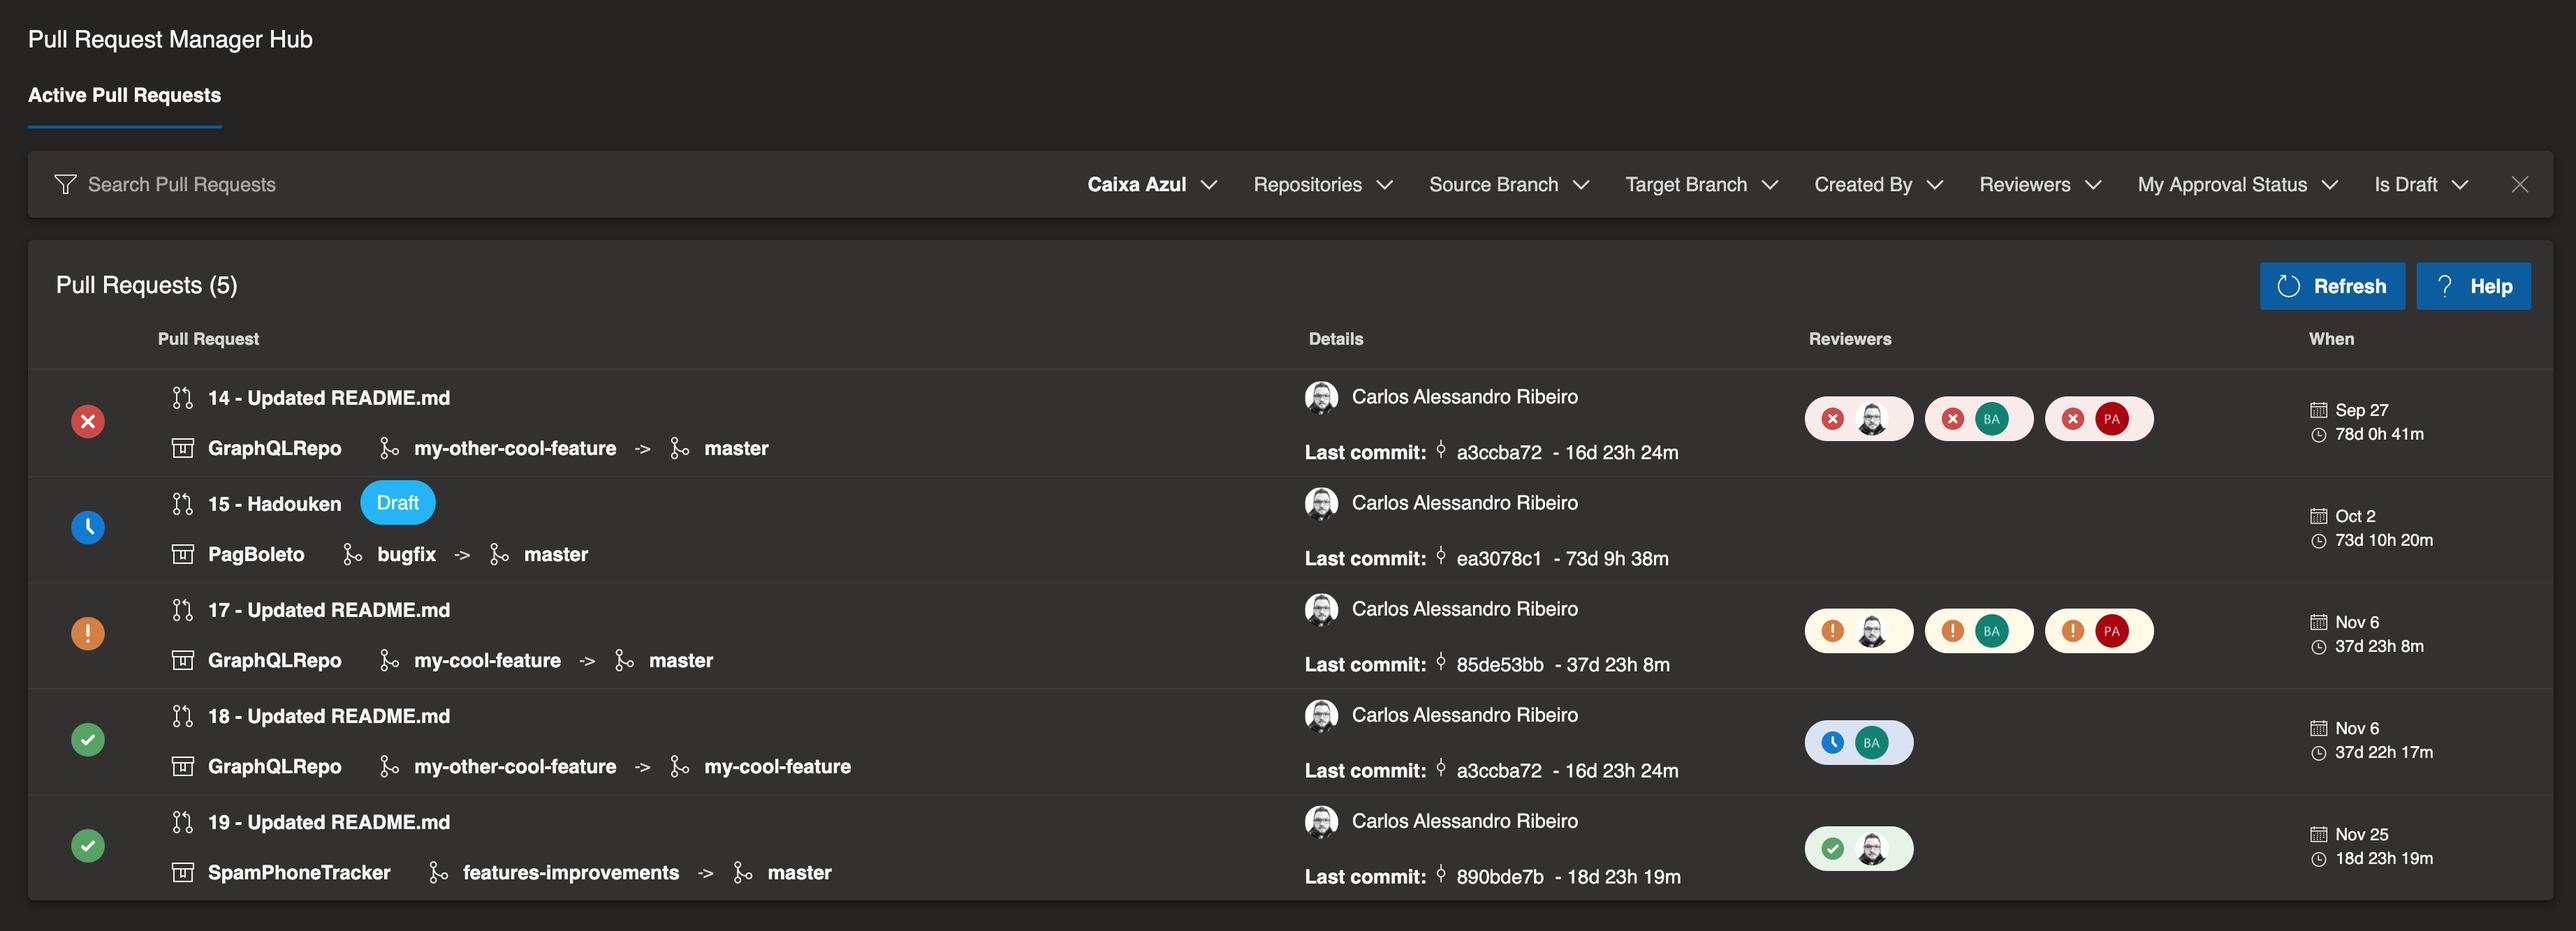
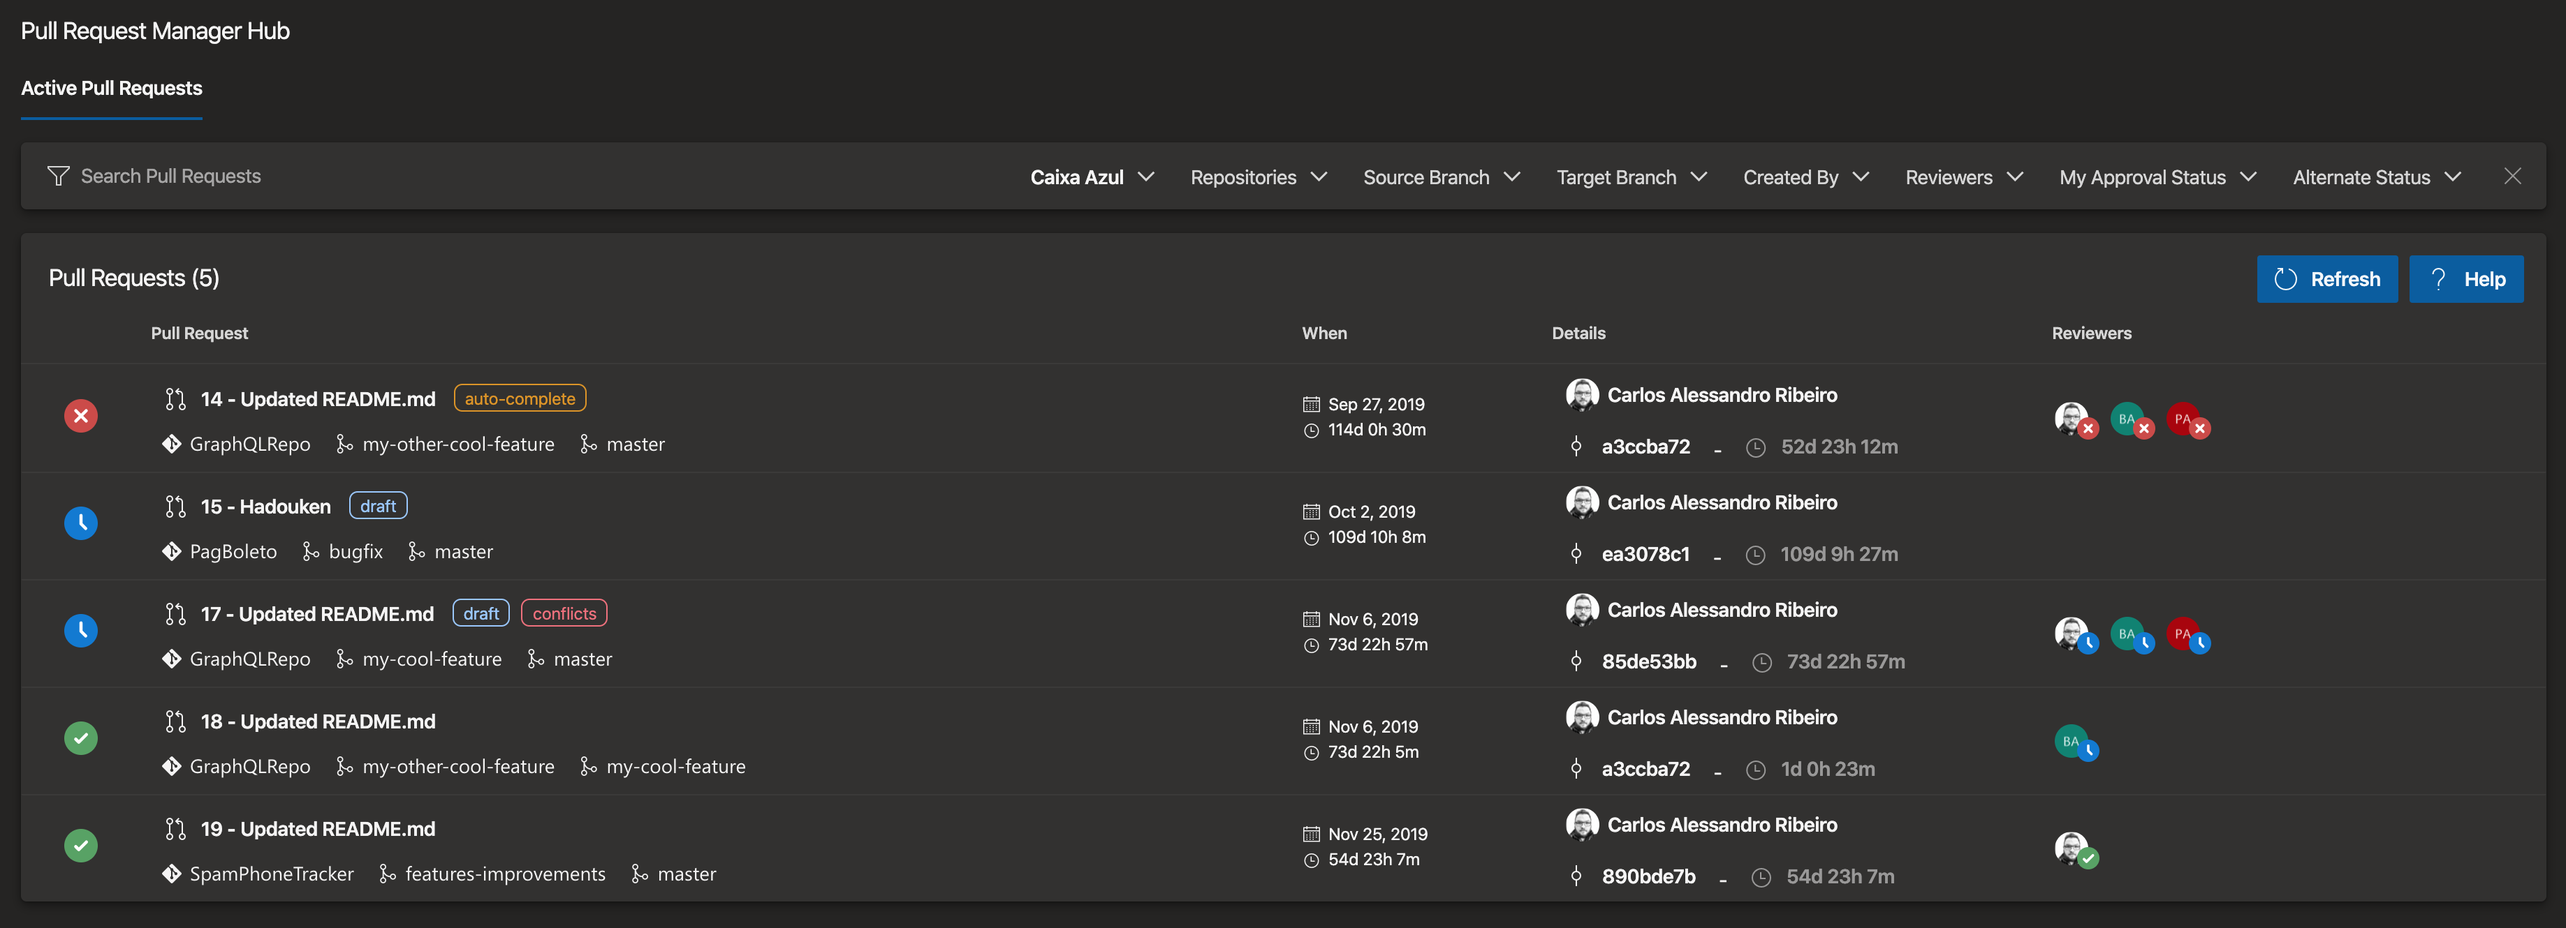
Updated screenshots

diff --git a/marketplace/overview.md b/marketplace/overview.md
@@ -1,5 +1,3 @@
-![Pull Request Manager Hub - Logo](marketplace/screenshots/screenshot-01.png)
-
 # Azure DevOps Pull Request Manager Hub
 
 Please report any feedback/issue [here](https://github.com/cribeiro84/azure-devops-pull-request-hub):
@@ -21,7 +19,7 @@ Manage your Pull Requests of all your projects and repositories at a single plac
   - Requestor
   - Reviewers
   - Your vote status
-  - Draft
+  - Alternate Status: Is Draft, Conflicts, Auto-Complete
 - Continue where you left - When you click to review a Pull Request (it always opens in a **new window**) the row will be kept highlighted
 - Easily identify the reviewers of that Pull Request
 - Last Commit push date
@@ -39,6 +37,15 @@ Manage your Pull Requests of all your projects and repositories at a single plac
   - New badge (Pill) for your voted PRs with new changes
 
 ## Updates
+
+### 19/01/2020
+
+- UI tweaks
+- Minor improvements
+- Code refactoring
+- Performance improvements
+- Replaced Is Draft filter by Alternate Status
+  - It allows to filter by: Is Draft, Conflicts and Auto-Complete
 
 ### 11/01/2020
 
